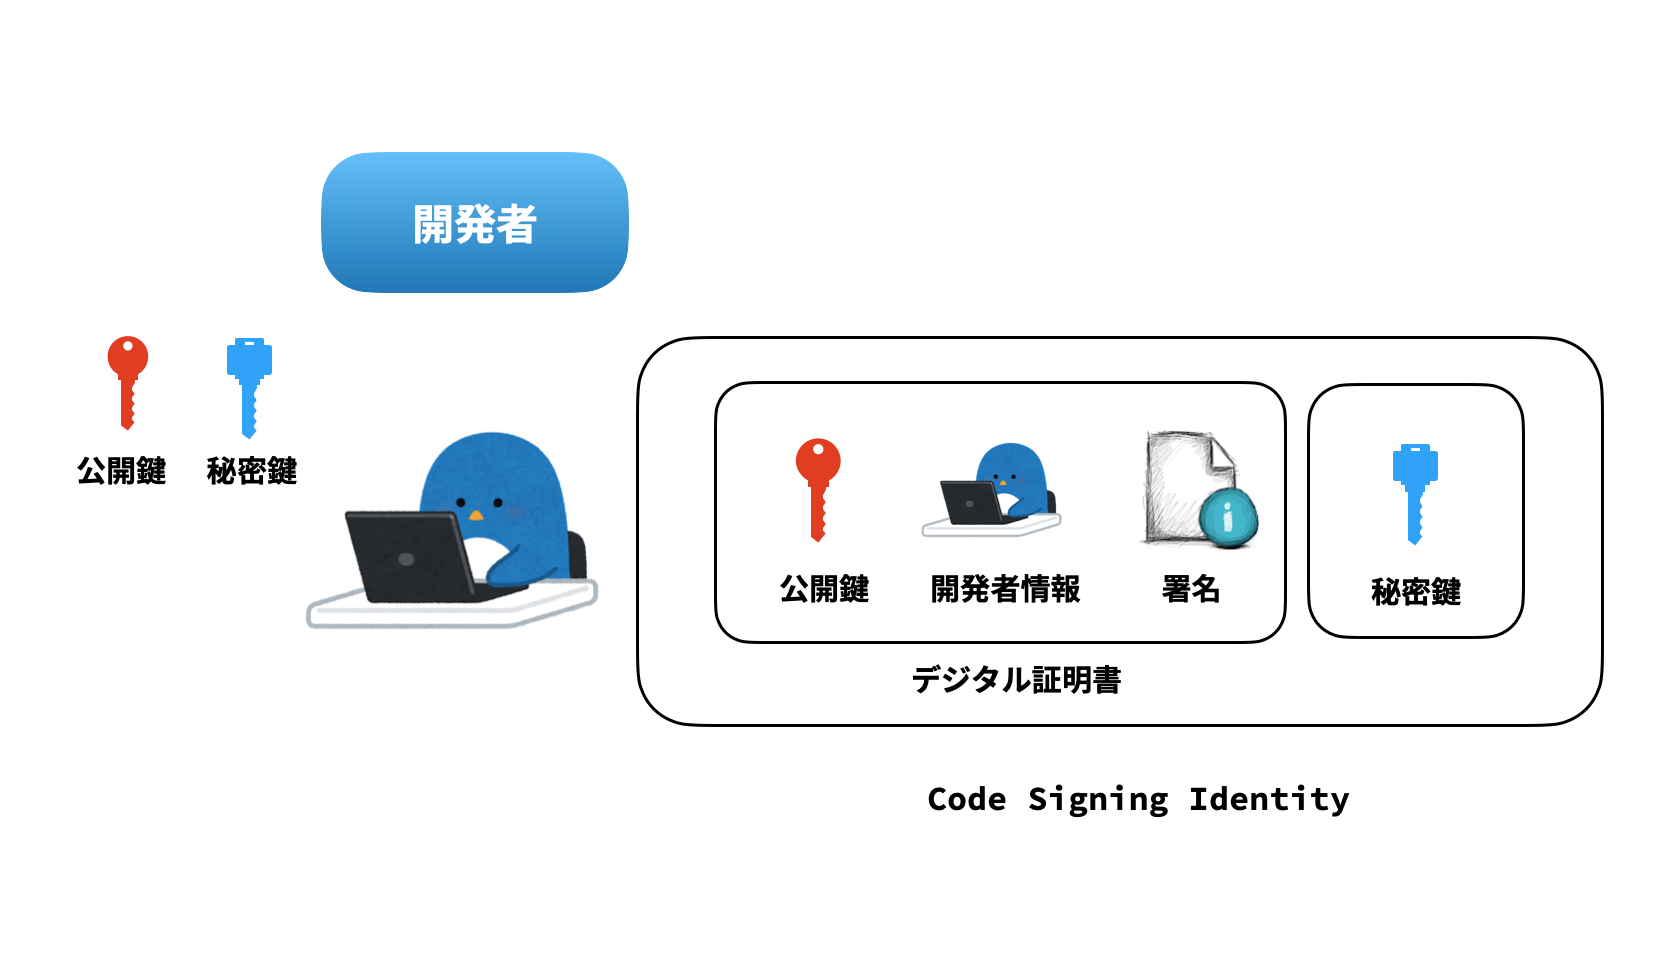
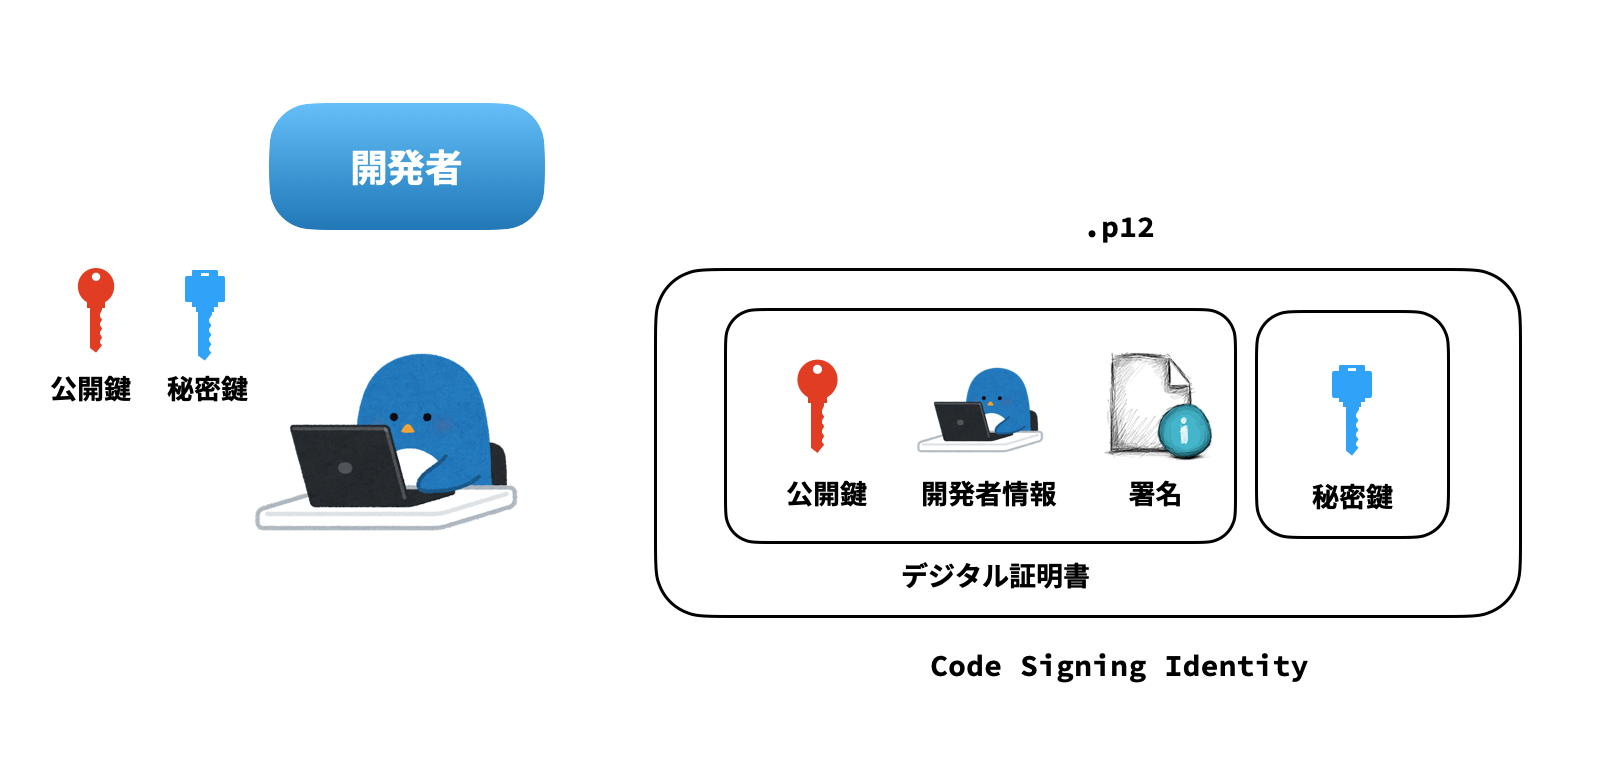
update articles

diff --git a/articles/certificate_3_register_certificate.md b/articles/certificate_3_register_certificate.md
@@ -8,7 +8,9 @@ published: false
 
 # はじめに
 
-[前回](https://zenn.dev/yossibank/articles/certificate_2_create_csr_certificate)はiOSの証明書周りを理解するための証明書作成編として、実際にローカルマシンでCSR、デジタル証明書を発行しながら読み解いていきました。
+[前回](https://zenn.dev/yossibank/articles/certificate_2_create_csr_certificate)はiOSの証明書周りを理解するための証明書発行編として、実際にローカルマシンでCSRの作成、デジタル証明書を発行しながら読み解いていきました。
+
+https://zenn.dev/yossibank/articles/certificate_2_create_csr_certificate
 
 今回は発行したデジタル証明書をローカルマシンに取り込んだときに、どのように管理されているかを読み解いていきます。
 
@@ -30,11 +32,33 @@ cer | キーチェーン
 
 ここで、証明書と秘密鍵が紐づいてペアとなったものは[identity](https://developer.apple.com/documentation/security/certificate_key_and_trust_services/identities)と呼ばれ、特にコード署名においてはCode Signing Identityと呼ばれます。
 
-![Code Signing Identity](/images/certificate/3_register_certificate5.png)
-
 ## Code Signing Identity
 
+Code Signing Identityは、証明書に含まれている公開鍵、開発者情報、認証局での署名情報と公開鍵とペアの秘密鍵を含んでいます。また、Code Signing Identityは`.p12`ファイル形式で生成されます。
+
+![Code Signing Identity](/images/certificate/3_register_certificate5.png)
+
+Code Signing Identityの作成は、キーチェーン上で対象の証明書、秘密鍵を書き出すことでローカルマシンに保存することができます。
+
+書き出し | p12ファイル保存
+:--: | :--:
+![書き出し](/images/certificate/3_register_certificate6.png) | ![p12ファイル作成](/images/certificate/3_register_certificate7.png)
+
+p12ファイルは様々な用途で使用できます。例えば、ローカルマシンを新しく買い替えた時などです。本来は新しいローカルマシンには秘密鍵がないため、CSRから証明書を作り直す必要がありますが、Code Signing Identityを書き出してp12ファイルで保存しておけば、p12ファイルを取り込むだけで済みます。
+
+![p12買い替え](/images/certificate/3_register_certificate8.png)
+
+また、チーム開発の際は一つのCode Signing Identityを共有することで、個別でわざわざ作る必要がなくなります。
+
+![p12チーム開発](/images/certificate/3_register_certificate9.png)
+
+他にもBitriseといったCI/CDツールでもコード署名をする際に必要になったりします。
+
 # おわりに
+
+証明書をローカルマシンに取り込んだ際の秘密鍵との紐付き、ならびにCode Signing Identityの役割を確認することができました。
+
+次回(準備中)は、Provisioning Profileの作成について読み解いていきます。
 
 :::details 参考
 

diff --git a/articles/ios_certificate.md b/articles/ios_certificate.md
@@ -1,0 +1,25 @@
+---
+title: "iOSの証明書周りをイラストで読み解く"
+emoji: "📝"
+type: "tech" # tech: 技術記事 / idea: アイデア
+topics: [iOS, Swift, Xcode]
+published: false
+---
+
+# はじめに
+
+iOSアプリを開発・公開する上で必要になってくるのが証明書周りの知識ですが、はじめは様々な用語が出るので混乱してしまっていました。
+
+私自身が整理していく中で、証明書周りの関係をイラストにしてみると分かりやすかったので、今回はなるべくイラストを使ってご紹介していきたいと思います。
+
+# 全体像
+
+今回見ていくiOS証明書周りの全体像になります。
+
+![全体像](/images/certificate/overview.png)
+
+※ iOSの証明書周りの全体像を説明する上で、こちらの記事が大変分かりやすいため、こちらを参考に作成いたしました
+
+https://qiita.com/fujisan3/items/d037e3c40a0acc46f618
+
+## 概要

diff --git a/articles/certificate_2_create_csr_certificate.md b/articles/certificate_2_create_csr_certificate.md
@@ -1,9 +1,9 @@
 ---
-title: "iOSの証明書周りをイラストで読み解く 証明書作成編"
+title: "iOSの証明書周りをイラストで読み解く 証明書発行編"
 emoji: "📝"
 type: "tech" # tech: 技術記事 / idea: アイデア
 topics: [iOS, Swift, Xcode]
-published: true
+published: false
 ---
 
 # はじめに
